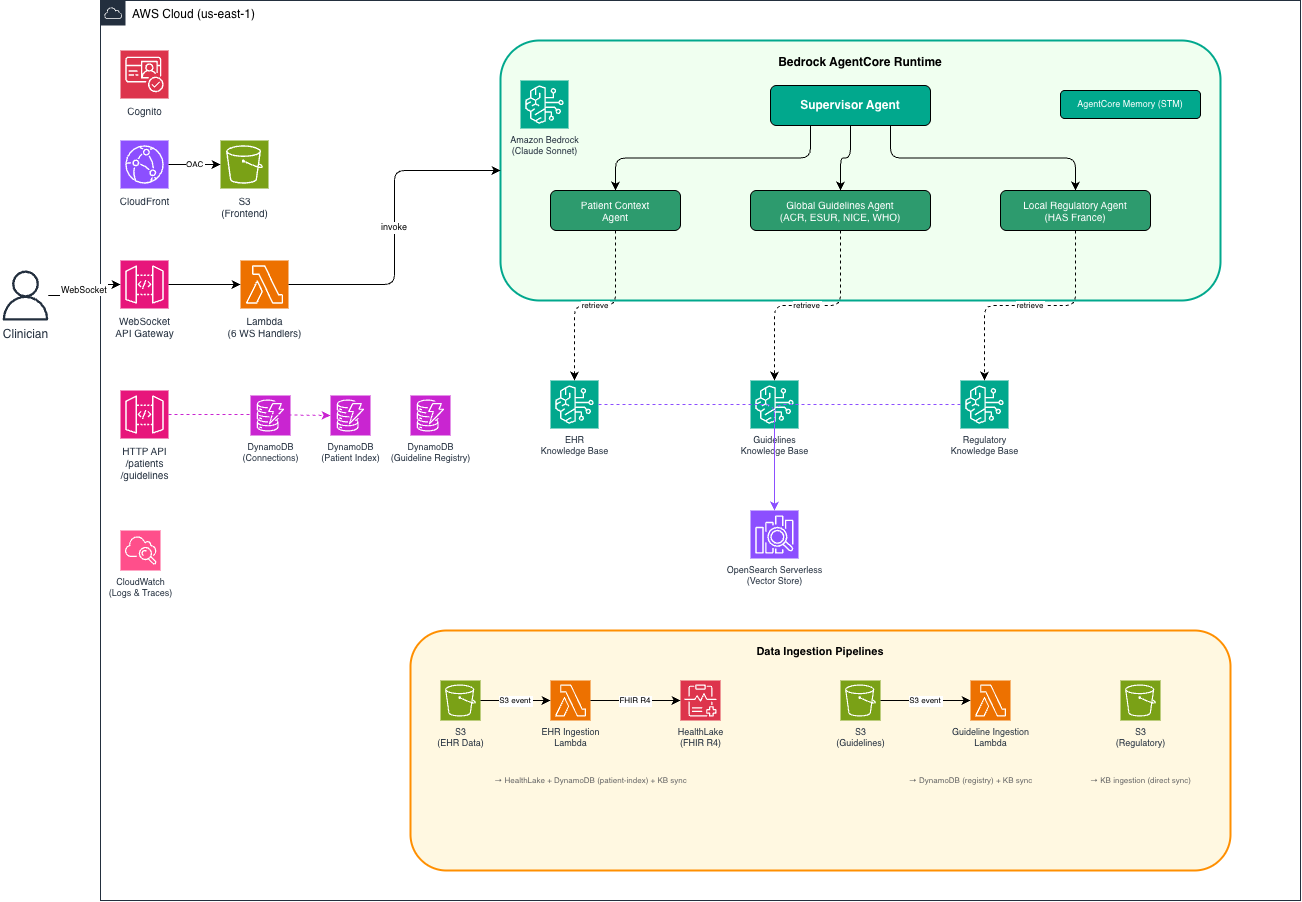
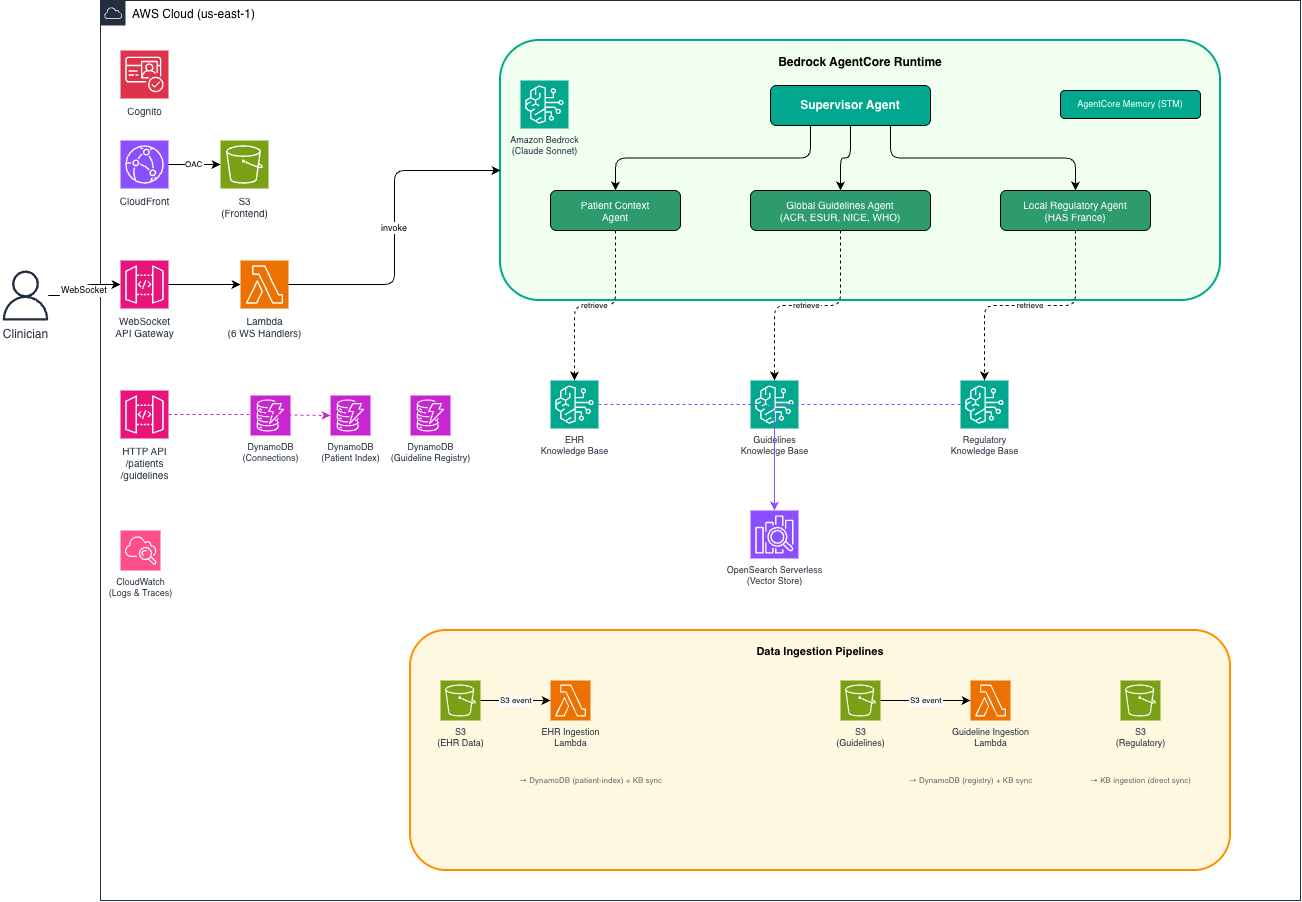
Align README and docs site with the code (#2)
* Align README and docs site with the code: Lambda count, auth on REST examples, install steps, setup order, project structure, sample data scope

* Remove performance and latency figures (experimental sample)

* Describe EHR pipeline as DynamoDB + KB; add optional 'Extending with AWS HealthLake' section

* Neutral wording for the HealthLake extension section

* Remove unverified HealthLake creation-time claim from infra README

* Update architecture diagram: remove HealthLake from the EHR pipeline

Changed region(s): [[0.4608, 0.745, 0.553, 0.8381], [0.3994, 0.8381, 0.5223, 0.8692], [0.4301, 0.3104, 0.4608, 0.3415]]

diff --git a/README.md b/README.md
@@ -75,11 +75,12 @@ AI-powered clinical decision support system providing evidence-based imaging rec
 ## Project Structure
 
 ```
-aws-clinicalcompanion/
+sample-aws-ai-clinicalcompanion/
 ├── backend/
 │   ├── agents/                # Multi-agent system (Supervisor, Patient, Guidelines, Regulatory)
 │   ├── utils/                 # Session management, memory, observability, progress tracking
 │   ├── lambda/websocket/      # 5 Lambda handlers (connect, disconnect, query, ping, default)
+│   ├── tests/                 # Backend unit tests (pytest)
 │   ├── app.py                 # AgentCore container entry point
 │   └── requirements.txt
 ├── frontend/
@@ -89,6 +90,7 @@ aws-clinicalcompanion/
 │   └── index.html
 ├── infra/                     # CDK infrastructure (TypeScript)
 │   ├── lib/clinicalcompass-stack.ts
+│   ├── test/                  # CDK security assertion tests (Jest)
 │   └── bin/app.ts
 ├── knowledge-bases/
 │   ├── data/                  # Clinical data (EHR, guidelines, regulatory)
@@ -101,8 +103,7 @@ aws-clinicalcompanion/
 │   │   ├── cleanup_all.py     # Full teardown
 │   │   └── quick_update_agentcore.sh  # Fast local Docker rebuild
 │   └── config.example.py      # Config template
-├── docs/                      # Architecture, API, deployment docs
-└── tests/
+└── docs/                      # Hugo documentation site (content in docs/content/docs/)
 ```
 
 ## Prerequisites
@@ -151,7 +152,7 @@ See [Architecture](docs/content/docs/architecture.md) for detailed pipeline diag
 - DynamoDB tables (WebSocket connections, patient index, guideline registry)
 - ECR repository (AgentCore container images)
 - IAM roles and policies (AgentCore, Lambda, KB roles)
-- 10 Lambda functions (WebSocket handlers, EHR/guideline ingestion, patient/guideline APIs, keep-alive)
+- 12 Lambda functions (5 WebSocket handlers, WebSocket authorizer, EHR/guideline ingestion, patient/guideline APIs, keep-alive, guideline tamper detector)
 - WebSocket API Gateway + routes + integrations + stage
 - HTTP API Gateway (REST endpoints for `/patients` and `/guidelines`)
 - S3 buckets (EHR data, guidelines, KB data × 3, frontend static files)
@@ -164,7 +165,7 @@ See [Architecture](docs/content/docs/architecture.md) for detailed pipeline diag
 
 | Script | Purpose |
 |---|---|
-| `post_cdk_setup.py` | HealthLake datastore, OpenSearch indices, Bedrock KBs, AgentCore Memory, AgentCore Runtime, data upload, config updates |
+| `post_cdk_setup.py` | OpenSearch indices, Bedrock KBs, AgentCore Memory, AgentCore Runtime, data upload, config updates |
 | `build_and_push_image.py` | Docker build & push to ECR, and refresh an existing AgentCore runtime |
 | `deploy_frontend.py` | Generate config.js, upload to S3, invalidate CloudFront |
 | `cleanup_all.py` | Full teardown of all resources including orphans |
@@ -303,7 +304,7 @@ Bedrock Knowledge Base records can occasionally linger in `DELETE_UNSUCCESSFUL` 
 
 ### Verifying the EHR Data Pipeline
 
-The EHR pipeline is triggered automatically when patient JSON files are uploaded to the `clinicalcompass-ehr-data-<ACCOUNT_ID>` S3 bucket. The Lambda parses the file, stores structured data in DynamoDB, and (when configured) syncs to HealthLake and the Knowledge Base.
+The EHR pipeline is triggered automatically when patient JSON files are uploaded to the `clinicalcompass-ehr-data-<ACCOUNT_ID>` S3 bucket. The Lambda parses the file, stores structured data in DynamoDB, and syncs it to the Knowledge Base. To also store patient data in FHIR R4 format, see [Extending with AWS HealthLake](docs/content/docs/architecture.md#extending-with-aws-healthlake).
 
 > In the commands below, replace the placeholders with your own values. `<ACCOUNT_ID>` is your AWS account ID (`aws sts get-caller-identity --query Account --output text`). The `<..._KB_ID>` and `<..._DATA_SOURCE_ID>` values are written to `knowledge-bases/knowledge_base_ids.json` by `post_cdk_setup.py`.
 
@@ -361,7 +362,7 @@ aws logs tail /aws/lambda/clinicalcompass-ehr-ingestion --since 10m \
 
 **Common issues:**
 - `Float types are not supported` → Lambda code needs the Decimal conversion fix (redeploy Lambda)
-- `FHIR_DATASTORE_ID not configured` → Expected warning if HealthLake isn't set up yet (non-blocking)
+- `FHIR_DATASTORE_ID not configured` → Expected. The sample doesn't use HealthLake by default (see [Extending with AWS HealthLake](docs/content/docs/architecture.md#extending-with-aws-healthlake))
 - No Lambda invocations → Check S3 event notification is configured (verify in AWS Console: S3 bucket → Properties → Event notifications)
 
 ### Verifying Knowledge Base Vectorization
@@ -492,7 +493,13 @@ API=$(aws ssm get-parameter --name /clinicalcompass/http-api-endpoint \
   --profile <YOUR_PROFILE> --region us-east-1 \
   --query 'Parameter.Value' --output text)
 
-curl $API/guidelines
+# The REST API requires a Cognito access token (unauthenticated calls return 401)
+TOKEN=$(aws cognito-idp initiate-auth --auth-flow USER_PASSWORD_AUTH \
+  --client-id <COGNITO_CLIENT_ID> --region us-east-1 \
+  --auth-parameters 'USERNAME=doctor,PASSWORD=<STRONG_PASSWORD>' \
+  --query 'AuthenticationResult.AccessToken' --output text)
+
+curl -H "Authorization: Bearer $TOKEN" $API/guidelines
 ```
 
 **Common issues:**
@@ -588,8 +595,8 @@ The tables below show what the sample already protects, and what must be added b
 2. Supervisor Agent parses the query and extracts clinical entities
 3. Three specialized agents run in parallel:
    - Patient Context Agent — retrieves EHR data
-   - Global Guidelines Agent — consults ACR, ESUR, NICE, WHO
-   - Local Regulatory Agent — checks HAS France protocols
+   - Global Guidelines Agent — consults international guidelines (the sample data includes the ACR contrast manual)
+   - Local Regulatory Agent — checks local protocols (the sample data includes HAS France contrast protocols)
 4. Supervisor detects conflicts between guidelines
 5. Precedence rules resolve conflicts: local > national > international
 6. Final recommendation with safety alerts, alternatives, and citations

diff --git a/docs/content/docs/installation.md b/docs/content/docs/installation.md
@@ -20,6 +20,14 @@ Deploy ClinicalCompass in your AWS account. The system uses AWS CDK for infrastr
 # Install Python dependencies
 pip install boto3 opensearch-py requests-aws4auth
 pip install -r backend/requirements.txt
+
+# Install WebSocket authorizer Lambda dependencies (bundled for Lambda deployment)
+# These are installed into the Lambda directory for CDK to package them.
+# Target platform must be Linux x86_64 to match the Lambda runtime.
+pip install -r backend/lambda/websocket_authorizer/requirements.txt \
+  -t backend/lambda/websocket_authorizer/ \
+  --platform manylinux2014_x86_64 \
+  --only-binary=:all:
 ```
 
 ## What Gets Deployed
@@ -32,7 +40,7 @@ pip install -r backend/requirements.txt
 | DynamoDB tables | Connections, patient-index, guideline-registry |
 | ECR repository | AgentCore container images |
 | IAM roles and policies | AgentCore, Lambda, KB access |
-| 10 Lambda functions | WebSocket handlers, EHR/guideline ingestion, patient/guideline APIs, keep-alive |
+| 12 Lambda functions | 5 WebSocket handlers, WebSocket authorizer, EHR/guideline ingestion, patient/guideline APIs, keep-alive, guideline tamper detector |
 | WebSocket API Gateway | Real-time agent communication |
 | HTTP API Gateway | REST endpoints (`/patients`, `/guidelines`) |
 | S3 buckets | Frontend static files, EHR data, guidelines, regulatory, KB data x3 |
@@ -45,7 +53,7 @@ pip install -r backend/requirements.txt
 
 | Script | Purpose |
 |--------|---------|
-| `post_cdk_setup.py` | HealthLake, OpenSearch indices, Bedrock KBs, AgentCore Memory, AgentCore Runtime, data upload, config updates |
+| `post_cdk_setup.py` | OpenSearch indices, Bedrock KBs, AgentCore Memory, AgentCore Runtime, data upload, config updates |
 | `build_and_push_image.py` | Docker build and push to ECR; refresh existing AgentCore runtime when present |
 | `deploy_frontend.py` | Generate config.js, upload to S3, invalidate CloudFront |
 | `cleanup_all.py` | Full teardown of all resources including orphans |
@@ -62,6 +70,12 @@ Edit `deployment/config.py` and set:
 - `AWS_PROFILE` - your named AWS CLI profile
 - `AWS_REGION` - target region (default: `us-east-1`)
 - `AWS_ACCOUNT_ID` - your 12-digit account ID
+
+The CDK and AWS CLI commands below do not read `config.py`. Point them at the same profile and Region so everything deploys to the same account:
+
+```bash
+export AWS_PROFILE=<YOUR_PROFILE> AWS_REGION=us-east-1 AWS_DEFAULT_REGION=us-east-1
+```
 
 ### Step 2: Deploy infrastructure
 
@@ -103,20 +117,19 @@ aws ecr describe-images --repository-name bedrock-agentcore-clinicalcompass \
 - `denied: Your authorization token has expired` - Re-run the script (it re-authenticates)
 {{< /callout >}}
 
-### Step 4: Complete setup (HealthLake, KBs, memory, runtime, data)
+### Step 4: Complete setup (KBs, memory, runtime, data)
 
 ```bash
 python deployment/scripts/post_cdk_setup.py
 ```
 
 This script:
-1. Creates HealthLake FHIR datastore (if configured)
-2. Creates OpenSearch indices
-3. Creates Bedrock Knowledge Bases
+1. Creates OpenSearch indices
+2. Creates Bedrock Knowledge Bases
+3. Provisions short-term memory (AgentCore Memory), before the runtime so agent containers find the memory ID when they start
 4. Creates the AgentCore Runtime
-5. Provisions short-term memory
-6. Uploads clinical data to KBs
-7. Updates `frontend/config.js` and `knowledge-bases/knowledge_base_ids.json`
+5. Uploads clinical data to KBs
+6. Updates `frontend/config.js` and `knowledge-bases/knowledge_base_ids.json`
 
 **Validate:**
 ```bash
@@ -130,6 +143,8 @@ aws bedrock-agentcore-control list-agent-runtimes \
 - `opensearch-py and requests-aws4auth required` - Install them, then re-run with `--skip-runtime --skip-memory --skip-config`
 - `Collection status: CREATING` - OpenSearch collections take 2-5 min after CDK deploy. Wait and re-run.
 - `Failed to create runtime` - Check Docker image was pushed (Step 3) and IAM role exists.
+- `Index not visible to Bedrock yet ... retrying` right after `✓ Index created` - Expected. A new OpenSearch Serverless index takes a short time to become visible to Bedrock, and the script retries for up to 3 minutes. If it still ends with `Failed to create KB ... no such index`, re-run `python deployment/scripts/post_cdk_setup.py --skip-runtime --skip-initial-upload`.
+- `Failed to provision Vector Store for the customer` during the memory step - A transient AgentCore Memory failure. The script retries up to 3 times. If it still fails, re-run only the memory step a few minutes later with `python deployment/scripts/post_cdk_setup.py --skip-kb --skip-runtime --skip-data --skip-initial-upload --skip-config`, then refresh the agent with `python deployment/scripts/build_and_push_image.py`.
 {{< /callout >}}
 
 ### Step 5: Deploy frontend to CloudFront
@@ -205,7 +220,8 @@ Choose a password that satisfies the pool policy: at least 8 characters with upp
 ## Full Teardown
 
 ```bash
-python deployment/scripts/cleanup_all.py
+python deployment/scripts/cleanup_all.py        # interactive
+python deployment/scripts/cleanup_all.py --yes  # non-interactive
 ```
 
 S3 buckets and the ECR repository have `RETAIN` removal policy and won't be deleted by `cdk destroy` alone. The cleanup script handles them.

diff --git a/docs/content/docs/architecture.md b/docs/content/docs/architecture.md
@@ -19,7 +19,7 @@ The primary interaction path for clinicians uses WebSocket for streaming respons
 
 1. **CloudFront** serves the static frontend from S3 (OAC-secured)
 2. **WebSocket API Gateway** handles real-time bidirectional communication
-3. **6 Lambda handlers** manage connection lifecycle and query routing
+3. **5 Lambda handlers** (connect, disconnect, query, ping, default) manage connection lifecycle and query routing, behind a **Lambda authorizer** that validates the Cognito token
 4. **AgentCore Runtime** hosts the multi-agent system that processes clinical queries
 
 ## REST API
@@ -52,8 +52,8 @@ Three Bedrock Knowledge Bases provide semantic retrieval:
 | Knowledge Base | Content | Agent |
 |---------------|---------|-------|
 | EHR | Patient demographics, labs, medications, allergies | Patient Context Agent |
-| Guidelines | ACR, ESUR, NICE, WHO clinical guidelines | Global Guidelines Agent |
-| Regulatory | HAS France, NHS local trust protocols, SOPs | Local Regulatory Agent |
+| Guidelines | International clinical guidelines (sample data: ACR contrast manual) | Global Guidelines Agent |
+| Regulatory | National and local protocols (sample data: HAS France contrast protocols) | Local Regulatory Agent |
 
 All KBs use:
 - **Embedding:** amazon.titan-embed-text-v2:0
@@ -67,14 +67,25 @@ Three separate ingestion paths feed the knowledge bases and DynamoDB:
 ### Patient (EHR) Pipeline
 
 ```
-S3 (ehr-data) → Lambda (EHR Ingestion) → HealthLake (FHIR R4) + DynamoDB (patient-index) + KB sync
+S3 (ehr-data) → Lambda (EHR Ingestion) → DynamoDB (patient-index) + KB sync
 ```
 
 - Triggered by S3 upload events
-- Transforms patient JSON to FHIR R4 format and stores in AWS HealthLake
 - Computes section hashes for differential detection (only changed sections re-processed)
 - Stores structured records in DynamoDB for direct lookups (UI Patient Selector)
 - Syncs to EHR Knowledge Base for RAG retrieval (semantic search by agents)
+
+#### Extending with AWS HealthLake
+
+This sample stores patient data in DynamoDB and the EHR Knowledge Base. To also keep patient records in FHIR R4 format, for example to integrate with other FHIR-based systems, you can extend the EHR pipeline with [AWS HealthLake](https://aws.amazon.com/healthlake/), a managed FHIR R4 data store.
+
+The EHR ingestion Lambda includes a FHIR R4 transformation (`_transform_to_fhir_r4` in `backend/lambda/ehr_ingestion/handler.py`) you can use as a starting point. To enable HealthLake:
+
+1. Create a HealthLake data store in the same Region.
+2. Update the Lambda to read the data store endpoint and send the FHIR bundle to it.
+3. Scope the Lambda's HealthLake permissions to that data store.
+
+A HealthLake data store is billed per hour while it exists. See [AWS HealthLake pricing](https://aws.amazon.com/healthlake/pricing/).
 
 ### Guidelines Pipeline
 
@@ -117,12 +128,11 @@ A vanilla JavaScript application served via CloudFront, using the [AG-UI protoco
 The entire stack is deployed via AWS CDK (TypeScript):
 
 - DynamoDB tables (connections, patient-index, guideline-registry)
-- 10 Lambda functions (WebSocket handlers, ingestion, API, keep-alive)
+- 12 Lambda functions (5 WebSocket handlers, WebSocket authorizer, EHR/guideline ingestion, patient/guideline APIs, keep-alive, guideline tamper detector)
 - WebSocket + HTTP API Gateways
 - S3 buckets (frontend, EHR data, guidelines, regulatory, KB data x3)
 - CloudFront distribution + OAC
 - OpenSearch Serverless collections
-- AWS HealthLake FHIR datastore (patient data in FHIR R4 format)
 - Cognito User Pool
 - SSM Parameter Store (resource IDs, ARNs, endpoints)
 - CloudWatch Events (AgentCore keep-alive every 5 min)

diff --git a/infra/README.md b/infra/README.md
@@ -77,8 +77,8 @@ The `ClinicalCompassStack` provisions all AWS infrastructure in a single `npx cd
 | SSM `/clinicalcompass/guideline-registry-table` | Guideline registry table name |
 | SSM `/clinicalcompass/ehr-data-bucket` | EHR data S3 bucket name |
 | SSM `/clinicalcompass/guidelines-bucket` | Guidelines S3 bucket name |
-| SSM `/clinicalcompass/fhir-datastore-id` | HealthLake ID (set by post_cdk_setup.py) |
-| SSM `/clinicalcompass/fhir-datastore-endpoint` | HealthLake endpoint (set by post_cdk_setup.py) |
+| SSM `/clinicalcompass/fhir-datastore-id` | Placeholder for an optional HealthLake data store ID |
+| SSM `/clinicalcompass/fhir-datastore-endpoint` | Placeholder for an optional HealthLake data store endpoint |
 | SSM `/clinicalcompass/http-api-endpoint` | HTTP API Gateway URL |
 | SSM `/clinicalcompass/cloudfront-url` | CloudFront distribution URL for frontend |
 | SSM `/clinicalcompass/cloudfront-distribution-id` | CloudFront distribution ID (cache invalidation) |
@@ -90,7 +90,7 @@ The `ClinicalCompassStack` provisions all AWS infrastructure in a single `npx cd
 
 | Script | Purpose | When to run |
 |--------|---------|-------------|
-| `post_cdk_setup.py` | HealthLake datastore, OpenSearch indices, Bedrock KBs, AgentCore Memory, AgentCore Runtime, data upload, config updates | After `cdk deploy` |
+| `post_cdk_setup.py` | OpenSearch indices, Bedrock KBs, AgentCore Memory, AgentCore Runtime, data upload, config updates | After `cdk deploy` |
 | `build_and_push_image.py` | Docker build & push to ECR, then refresh an existing AgentCore runtime | After backend code changes |
 | `deploy_frontend.py` | Generate config.js, upload to S3, invalidate CloudFront | After frontend code changes |
 | `cleanup_all.py` | Full teardown of all resources (stack + orphans) | Before fresh redeploy |
@@ -110,7 +110,7 @@ cd infra && npm install && npx cdk deploy --require-approval never
 # 3. Build and push agent container (requires Docker)
 cd .. && python deployment/scripts/build_and_push_image.py
 
-# 4. Complete setup (HealthLake, KBs, memory, runtime, data, configs)
+# 4. Complete setup (KBs, memory, runtime, data, configs)
 python deployment/scripts/post_cdk_setup.py
 
 # 5. Deploy frontend to CloudFront
@@ -173,7 +173,7 @@ Bedrock can still retain stale Knowledge Base records in `DELETE_UNSUCCESSFUL` a
 
 ## Design Decisions
 
-1. **No HealthLake in CDK** — Takes 5-10 min to create, causes CloudFormation timeouts and cascade failures. Created by `post_cdk_setup.py` instead.
+1. **No HealthLake by default** — The sample stores patient data in DynamoDB and the EHR Knowledge Base. HealthLake is an optional extension (see "Extending with AWS HealthLake" in the architecture docs).
 2. **No provisioned concurrency** — Removed to avoid deployment failures when Lambda code can't initialize. Can be re-added once the system is stable.
 3. **No `autoDeleteObjects` on S3 buckets** — The custom resource Lambda it requires can fail during stack creation, causing cascade rollback failures. Cleanup handled by `cleanup_all.py`.
 4. **All removal policies set to DESTROY** — This is a demo/dev environment. Production would use RETAIN.

diff --git a/docs/content/docs/development.md b/docs/content/docs/development.md
@@ -75,7 +75,7 @@ This re-uploads data to S3 and triggers a KB sync without touching the runtime o
 ## Project Structure
 
 ```
-aws-clinicalcompanion/
+sample-aws-ai-clinicalcompanion/
 ├── backend/
 │   ├── agents/              # Multi-agent system
 │   │   ├── supervisor_agent.py
@@ -90,6 +90,7 @@ aws-clinicalcompanion/
 │   │   ├── clinical_observability.py
 │   │   └── kb_config.py
 │   ├── lambda/websocket/    # 5 Lambda handlers
+│   ├── tests/               # Backend unit tests (pytest)
 │   ├── app.py               # AgentCore container entry point
 │   └── requirements.txt
 ├── frontend/
@@ -98,14 +99,15 @@ aws-clinicalcompanion/
 │   └── index.html
 ├── infra/                   # CDK infrastructure (TypeScript)
 │   ├── lib/
+│   ├── test/                # CDK security assertion tests (Jest)
 │   └── bin/app.ts
 ├── knowledge-bases/
 │   ├── data/                # Clinical data (EHR, guidelines, regulatory)
 │   └── upload_data.py
 ├── deployment/
 │   ├── scripts/             # Deployment and setup scripts
-│   └── config.py            # Centralised configuration
-└── tests/                   # Integration and unit tests
+│   └── config.example.py    # Config template (copy to config.py, which is gitignored)
+└── docs/                    # Hugo documentation site
 ```
 
 ## Running Tests
@@ -135,8 +137,15 @@ aws dynamodb scan --table-name clinicalcompass-patient-index \
   --profile <YOUR_PROFILE> --region us-east-1 --query 'Count'
 
 # Verify via REST API
-curl $(aws ssm get-parameter --name /clinicalcompass/http-api-endpoint \
-  --query 'Parameter.Value' --output text)/patients
+API=$(aws ssm get-parameter --name /clinicalcompass/http-api-endpoint \
+  --profile <YOUR_PROFILE> --region us-east-1 \
+  --query 'Parameter.Value' --output text)
+# The REST API requires a Cognito access token (unauthenticated calls return 401)
+TOKEN=$(aws cognito-idp initiate-auth --auth-flow USER_PASSWORD_AUTH \
+  --client-id <COGNITO_CLIENT_ID> --region us-east-1 \
+  --auth-parameters 'USERNAME=doctor,PASSWORD=<STRONG_PASSWORD>' \
+  --query 'AuthenticationResult.AccessToken' --output text)
+curl -H "Authorization: Bearer $TOKEN" $API/patients
 ```
 
 ### Guidelines Pipeline
@@ -198,4 +207,5 @@ python deployment/scripts/post_cdk_setup.py --skip-runtime  # skip AgentCore Run
 python deployment/scripts/post_cdk_setup.py --skip-memory   # skip Memory creation
 python deployment/scripts/post_cdk_setup.py --skip-data     # skip KB data upload
 python deployment/scripts/post_cdk_setup.py --skip-config   # skip config file updates
+python deployment/scripts/post_cdk_setup.py --skip-initial-upload  # skip initial data upload to CDK-managed buckets
 ```

diff --git a/docs/content/docs/agents.md b/docs/content/docs/agents.md
@@ -85,11 +85,7 @@ Consults international clinical guideline knowledge bases.
 
 **Tool:** `query_guidelines(clinical_scenario, guideline_sources)`
 
-**Knowledge Base:** Global Guidelines KB
-- ACR (American College of Radiology)
-- ESUR (European Society of Urogenital Radiology)
-- NICE (National Institute for Health and Care Excellence)
-- WHO guidelines
+**Knowledge Base:** Global Guidelines KB. Designed for sources such as ACR (American College of Radiology), ESUR (European Society of Urogenital Radiology), NICE and WHO. The sample data includes the ACR contrast manual; add others by uploading them to the guidelines bucket.
 
 **Example query:**
 ```python
@@ -107,11 +103,7 @@ Checks national and local regulatory protocols that may override international g
 
 **Tool:** `query_regulatory_protocols(clinical_scenario, jurisdiction, protocol_sources)`
 
-**Knowledge Base:** Local Regulatory KB
-- HAS France (Haute Autorité de Santé) protocols
-- NHS local trust policies
-- Regional SOPs (Standard Operating Procedures)
-- Formulary restrictions
+**Knowledge Base:** Local Regulatory KB. Designed for national and local protocols such as HAS France (Haute Autorité de Santé), NHS trust policies, regional SOPs and formulary restrictions. The sample data includes HAS France contrast protocols.
 
 **Example query:**
 ```python
@@ -165,10 +157,3 @@ knowledge-bases/data/
 - Patient data is cached in AgentCore short-term memory within a session
 - Follow-up questions reference previous context without re-querying
 - Session timeout: 30 minutes of inactivity
-
-## Performance
-
-- Full multi-agent workflow: 30-40 seconds
-- All three specialised agents execute in parallel
-- Hot storage retrieval (decision traces): <200ms
-- Individual KB query: 2-5 seconds

diff --git a/docs/content/docs/observability.md b/docs/content/docs/observability.md
@@ -178,10 +178,10 @@ with clinical_span("custom.operation", session_id=session_id) as span:
 
 Clinical decision traces use two storage tiers:
 
-| Tier | Technology | Latency | Retention | Use Case |
-|------|-----------|---------|-----------|----------|
-| Hot | AgentCore Memory | <100ms | 24-48h | UI "View Full Reasoning" button |
-| Cold | CloudWatch Logs (OTEL) | 5-10s | 90 days+ | Audit, compliance, forensics |
+| Tier | Technology | Retention | Use Case |
+|------|-----------|-----------|----------|
+| Hot | AgentCore Memory | 30 days | UI "View Full Reasoning" button |
+| Cold | CloudWatch Logs (OTEL) | 90 days+ | Audit, compliance, forensics |
 
 The hot tier stores a structured JSON decision trace written at the end of each recommendation. The cold tier receives complete OTEL spans automatically.
 
